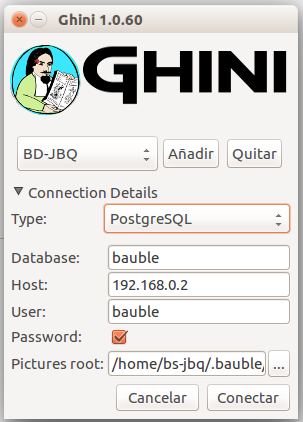
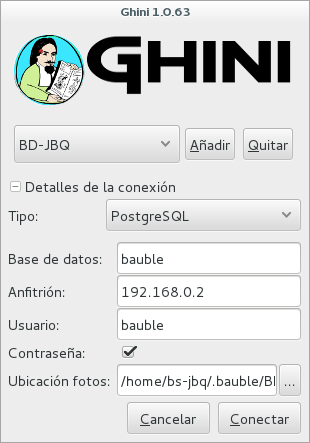
work in progress

diff --git a/doc/use_cases-jbq.rst b/doc/use_cases-jbq.rst
@@ -86,7 +86,7 @@ the name of the program, in our case “Ghini” or just click on the program
 symbol |100000000000003100000031BB54CBDFA885EBAC_png|, appearing near the
 left margin of your display.
 
-should we update the program
+When to update the program
 -------------------------------------
 
 The first window presented by Ghini looks like this, if up to date, or that,
@@ -106,28 +106,40 @@ mismo.
 
 The update procedure is simple, but please look it up in the docs.
 
-Login en el banco de datos
+Choose the database connection
 ----------------------------------------------------------------------------
 
-En el parte posterior se puede ver el nombre de la conexión a nuestra base
-de datos.  Llamamos la conexión “BD-JBQ”.
+Our data security policy prescribes three different user profiles, each of
+them will require you to insert a password.
 
-Todas las plantas registradas son guardadas en la base de datos.
+full permission (BD-JBQ)
+  only qualified personnel get this kind of access.
+
+insert and update (BD-JBQ-limitado)
+  We use this one for those users who come help us for a
+  limited time, and who did not get a complete introduction to database
+  concepts. It is meant to prevent costly mistakes.
+
+read only (BD-JBQ-lectura)
+  it can be shared with anyone visiting the garden
 
 En esta ventana no se ingresa ningún dato, solo hacer clic en “Conectar”
-para continuar a la próxima ventana.
+para continuar a la próxima ventana. The software will ask you for the
+password corresponding to the connection you selected.
+
+|10000000000000FE00000065C64D791B5CA0099D_png|
 
 Si quieres ver los detalles de la conexión, haz clic en el triangulo
 |1000000000000012000000136C4E92DF7BEB33CC_png| al lado de 'Connection
-Details':
+Details'. The connection window will expand to something like this:
 
-|100000000000012F000001A611615FB62F2D003B_png|
+============================================== ============================================== ==============================================
+|100000000000012F000001A611615FB62F2D003B_png| |100000000000012F000001A611615FB62F2D003D_png| |100000000000012F000001A611615FB62F2D003C_png|
+============================================== ============================================== ==============================================
 
 Como puedes ver, estamos conectándonos a una base de datos PostgreSQL, con
 el usuario ``bauble``. Este usuario tiene autorización completa a modificar
-cualquier información en la base de datos, y necesitas saber su contraseña.
-
-|10000000000000FE00000065C64D791B5CA0099D_png|
+cualquier información en la base de datos.
 
 3. Información del banco de datos
 ----------------------------------------------------------------------------
@@ -788,7 +800,12 @@ los resultados.
 
 .. |100000000000012F000001A611615FB62F2D003B_png| image:: images/100000000000012F000001A611615FB62F2D003B.png
     :width: 5.741cm
-    :height: 7.996cm
+
+.. |100000000000012F000001A611615FB62F2D003C_png| image:: images/100000000000012F000001A611615FB62F2D003C.png
+    :width: 5.741cm
+
+.. |100000000000012F000001A611615FB62F2D003D_png| image:: images/100000000000012F000001A611615FB62F2D003D.png
+    :width: 5.741cm
 
 .. |1000000000000293000001C423766E7D365A1489_png| image:: images/1000000000000293000001C423766E7D365A1489.png
     :width: 7.258cm
